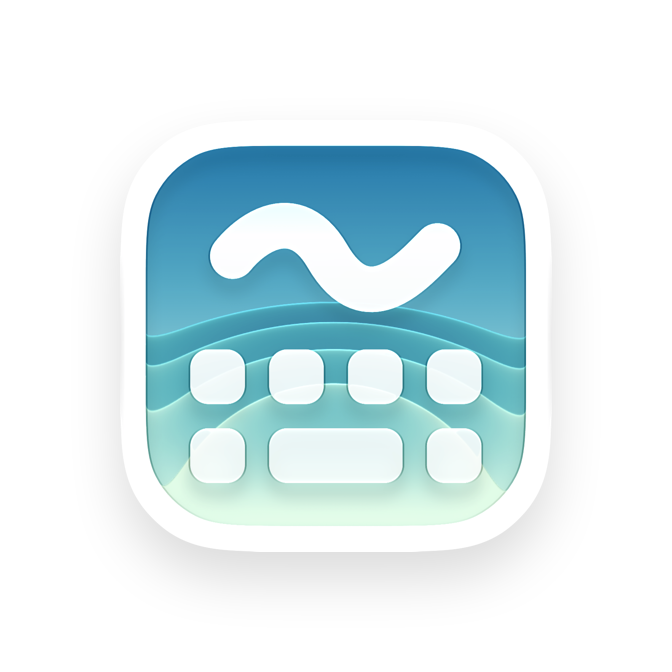
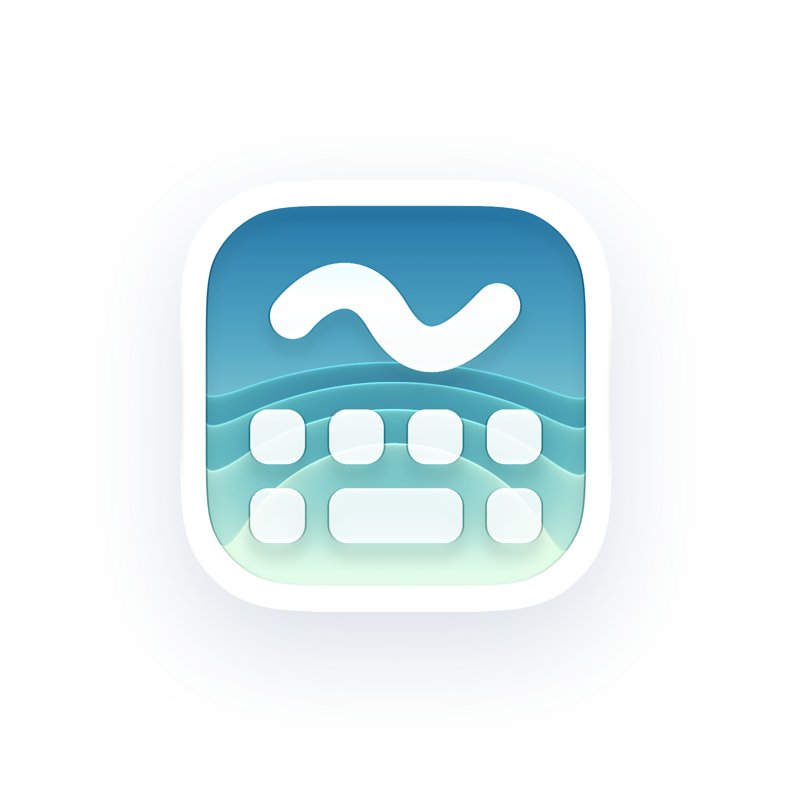
Update the site

Changed region(s): [[0.2188, 0.2188, 0.7812, 0.8125], [0.5938, 0.3125, 0.6875, 0.4062], [0.625, 0.4062, 0.6562, 0.4375]]

diff --git a/index.html b/index.html
@@ -23,13 +23,13 @@
 <meta name="twitter:image:alt" content="Sailmode for iPhone Duo. The most delightful way to see and control your Mac from your iPhone or iPad.">
 <link rel="icon" type="image/png" href="favicon.png?v=6fe44937cc">
 <link rel="preconnect" href="https://stream.mux.com">
-<link rel="stylesheet" href="style.css?v=9a1b765d91">
+<link rel="stylesheet" href="style.css?v=21add2f85d">
 </head>
 <body>
 <main class="hero">
-  <img class="icon" src="icon-hero.png?v=ef38507db9" width="224" height="224" alt="Sailmode">
+  <img class="icon" src="icon-hero.png?v=5724e4657d" width="264" height="264" alt="Sailmode">
   <h1>Sailmode for iPhone Duo.</h1>
-  <p class="sub"><span>The most delightful way to see</span> <span>and control your Mac from anywhere.</span></p>
+  <p class="sub">The most delightful way to see<br class="phone-break"> and control<br class="wide-break"> your Mac from anywhere.</p>
   <p class="soon"><span>Coming soon, also for iPhone and iPad.</span> <span>Follow <a href="https://x.com/sailmode">@sailmode</a> for more.</span></p>
   <!-- A film of every build sent to testers, the newest playing big in the middle, the earlier one small on its left,
        dimmed with a play button, and the build's name under the big one. Tapping the small one brings it to the
@@ -556,32 +556,70 @@
     const play = film.querySelector(".film-play");
     play.addEventListener("click", () => swap(film));
     // Resting the pointer on the small film, or reaching it with the keyboard, starts loading it, so it's ready by the
-    // tap. Not at once on hover: starting a stream holds Safari up for a moment, which made the hover's first move jump.
-    // So it waits until that move (0.42 s) is over, and a pointer only passing by loads nothing.
+    // tap. Not at once on hover: starting a stream holds Safari up for a moment, right as the hover's move begins. So
+    // it waits until that move (0.42 s) is over, and a pointer only passing by loads nothing.
     const warm = () => { if (film.classList.contains("is-small")) stream(film.querySelector("video")); };
     let resting;
     film.addEventListener("pointerenter", (event) => {
       clearTimeout(resting); resting = setTimeout(warm, 450);
-      // Pointing at the small film: it steps toward the middle and the big one makes room (style.css). Marked here
-      // rather than left to :hover, which in Safari jumped the first time instead of moving.
       if (event.pointerType !== "touch") point(film);
     });
     film.addEventListener("pointerleave", () => {
       clearTimeout(resting);
-      if (film.classList.contains("is-pointed")) unpoint();
+      if (film.classList.contains("is-pointed")) unpoint(true);
     });
     play.addEventListener("focus", warm);
   }
+
+  // Pointing at the small film draws it 20 points toward the middle, a touch larger, its play button a touch larger
+  // still, and the big one steps back to 99 % and 20 points the other way, making room, so the gap between them stays
+  // about the same. Only with a pointer that hovers, the films side by side, and with motion.
+  // Each move runs on keyframes with the spring written into them, as the swap does, from wherever the films are, so
+  // pointing away mid-way turns it around. Not as CSS transitions: those, Safari (27.3) jumped straight to the end.
+  // It moves translate and scale, which add to the swap's own transform rather than fight it.
+  const pointable = matchMedia("(prefers-reduced-motion: no-preference) and (hover: hover) and (min-width: 721px)");
+  const leanTime = 420;
+  // The FAQ's spring (site.js): critically damped, a 0.25 s response, over 0.31 s of it, here stretched to 0.42 s.
+  const leanCurve = (() => {
+    const omega = (2 * Math.PI) / 0.25, length = 0.31, x = (t) => 1 - (1 + omega * t) * Math.exp(-omega * t);
+    const steps = Math.round(leanTime / 8);
+    return Array.from({ length: steps + 1 }, (_, i) => ({ offset: i / steps, p: x((i / steps) * length) / x(length) }));
+  })();
+  const leaning = new Map();
+  function lean(el, x, k) {
+    const now = getComputedStyle(el);
+    const fromX = now.translate === "none" ? 0 : parseFloat(now.translate) || 0;
+    const fromK = now.scale === "none" ? 1 : parseFloat(now.scale) || 1;
+    leaning.get(el)?.cancel();
+    el.style.translate = x ? `${x}px 0` : "";
+    el.style.scale = k !== 1 ? `${k}` : "";
+    if (Math.abs(fromX - x) < 0.01 && Math.abs(fromK - k) < 0.0001) return;
+    leaning.set(el, el.animate(leanCurve.map(({ offset, p }) => ({
+      offset, translate: `${(fromX + (x - fromX) * p).toFixed(3)}px 0`, scale: (fromK + (k - fromK) * p).toFixed(5),
+    })), { duration: leanTime }));
+  }
   function point(film) {
-    if (!film.classList.contains("is-small") || container.classList.contains("swapping")) return;
+    if (!pointable.matches || !film.classList.contains("is-small") || container.classList.contains("swapping")) return;
     film.classList.add("is-pointed");
-    container.dataset.pointed = film.classList.contains("is-left") ? "left" : "right";
+    const toward = film.classList.contains("is-left") ? 20 : -20;
+    lean(film, toward, 1.04);
+    lean(playIcon(film), 0, 1.08);
+    const big = films.find((other) => other.classList.contains("is-big"));
+    if (big) lean(big, toward, 0.99);
   }
-  // A swap ends the pointing: the films trade places, and whichever then lies under the pointer is marked anew.
-  function unpoint() {
-    films.forEach((film) => film.classList.remove("is-pointed"));
-    delete container.dataset.pointed;
+  // Pointing away glides them back. A swap ends the pointing at once, its own move taking over from where they are;
+  // whichever film then lies under the pointer is pointed at anew as it lands.
+  function unpoint(glide = false) {
+    for (const film of films) {
+      film.classList.remove("is-pointed");
+      for (const el of [film, playIcon(film)]) {
+        if (glide) { lean(el, 0, 1); continue; }
+        leaning.get(el)?.cancel();
+        el.style.translate = el.style.scale = "";
+      }
+    }
   }
+  pointable.addEventListener("change", () => unpoint());
 
   // Sailmode's own controls, on each film; only the big film's show.
   const icons = {

diff --git a/style.css b/style.css
@@ -109,19 +109,22 @@ body {
   padding: max(12vh, 64px) max(16px, env(safe-area-inset-right)) 0 max(16px, env(safe-area-inset-left));
 }
 /* The icon at 144 points with the setup's soft shadow drawn into the picture (Tools/Website/shadowed-icon.swift)
-   and 40 points around it for that shadow, taken back by the margin: a CSS shadow, Safari cut off at the picture's
+   and 60 points around it for that shadow, taken back by the margin: a CSS shadow, Safari cut off at the picture's
    edges for a moment after loading. */
-.hero .icon { display: block; width: 224px; height: 224px; margin: -40px; }
+.hero .icon { display: block; width: 264px; height: 264px; margin: -60px; }
 .hero h1 {
   margin: 32px 0 0; max-width: 17ch; text-wrap: balance;
   font-size: clamp(32px, 5.4vw, 56px); line-height: 1.08; font-weight: 600; letter-spacing: -0.025em;
 }
-/* Two lines, the first the longer, narrowing like a funnel; small enough on a phone that each stays one line. */
+/* Two lines, small enough on a phone that each stays one line. Side by side, the first the longer, narrowing like a
+   funnel ("…to see and control / your Mac from anywhere."); on a phone the break comes after "to see", so the
+   second line isn't left short. */
 .hero .sub {
   margin: 14px 0 0;
   font-size: clamp(16px, 4.5vw, 24px); line-height: 1.4; color: var(--quiet);
 }
-.hero .sub span { display: block; }
+@media (max-width: 720px) { .hero .sub .wide-break { display: none; } }
+@media (min-width: 721px) { .hero .sub .phone-break { display: none; } }
 .hero .soon { margin: 28px 0 0; font-size: 15px; line-height: 1.4; color: var(--quiet); }
 .hero .soon span { display: block; }
 .hero .soon span + span { margin-top: 4px; }
@@ -193,21 +196,8 @@ body {
 .film.is-loading .film-wait { opacity: 1; animation-play-state: running; }
 @keyframes film-wait { to { rotate: 360deg; } }
 .film-play:focus-visible { outline: 3px solid #fff; outline-offset: -6px; }
-/* Pointing at the small film draws it 20 points toward the middle, a touch larger, its play button a touch larger
-   still, and the big one steps back to 99 %
-   and 20 points the other way, making room, so the gap between them stays about the same. These use translate and
-   scale, which add to the swap's own transform rather than fight it; during a swap they're off.
-   The page's script marks the pointed-at film (is-pointed) and which side it's on (data-pointed on .films), rather
-   than :hover and :has(:hover) doing it: from those, Safari let the first hover jump straight to the end. */
-@media (prefers-reduced-motion: no-preference) and (hover: hover) and (min-width: 721px) {
-  .film { transition: translate 0.42s var(--spring, ease-out), scale 0.42s var(--spring, ease-out); }
-  .film.is-small.is-right.is-pointed { translate: -20px 0; scale: 1.04; }
-  .film.is-small.is-left.is-pointed { translate: 20px 0; scale: 1.04; }
-  .films[data-pointed="right"] .film.is-big { translate: -20px 0; scale: 0.99; }
-  .films[data-pointed="left"] .film.is-big { translate: 20px 0; scale: 0.99; }
-  .film-play svg { transition: scale 0.42s var(--spring, ease-out), opacity 0.2s ease; }
-  .film.is-small.is-pointed .film-play svg { scale: 1.08; }
-}
+/* Pointing at the small film moves both films (translate and scale): the page's script does it, on a spring written
+   into keyframes, as CSS transitions jumped in Safari. During a swap they're off. */
 .films.swapping .film { translate: none !important; scale: none !important; transition: none !important; }
 
 /* The film's own controls, Sailmode's instead of the browser's: one glass bar, well inside the film's corners, with

diff --git a/privacy/index.html b/privacy/index.html
@@ -6,10 +6,10 @@
 <title>Privacy Policy · Sailmode</title>
 <meta name="description" content="How Sailmode and this website handle your data.">
 <link rel="icon" type="image/png" href="../favicon.png?v=6fe44937cc">
-<link rel="stylesheet" href="../style.css?v=9a1b765d91">
+<link rel="stylesheet" href="../style.css?v=21add2f85d">
 </head>
 <body>
-<header class="doc-top"><a href="../"><img src="../icon-hero.png?v=ef38507db9" width="56" height="56" alt="">Sailmode</a></header>
+<header class="doc-top"><a href="../"><img src="../icon-hero.png?v=5724e4657d" width="56" height="56" alt="">Sailmode</a></header>
 <main class="doc">
   <h1>Privacy Policy</h1>
   <p class="updated">Last updated: November 2026</p>

diff --git a/legal/index.html b/legal/index.html
@@ -6,10 +6,10 @@
 <title>Legal Notice · Sailmode</title>
 <meta name="description" content="Sailmode's legal notice and terms of use.">
 <link rel="icon" type="image/png" href="../favicon.png?v=6fe44937cc">
-<link rel="stylesheet" href="../style.css?v=9a1b765d91">
+<link rel="stylesheet" href="../style.css?v=21add2f85d">
 </head>
 <body>
-<header class="doc-top"><a href="../"><img src="../icon-hero.png?v=ef38507db9" width="56" height="56" alt="">Sailmode</a></header>
+<header class="doc-top"><a href="../"><img src="../icon-hero.png?v=5724e4657d" width="56" height="56" alt="">Sailmode</a></header>
 <main class="doc">
   <h1>Legal Notice</h1>
   <p class="updated">Last updated: November 2026</p>
